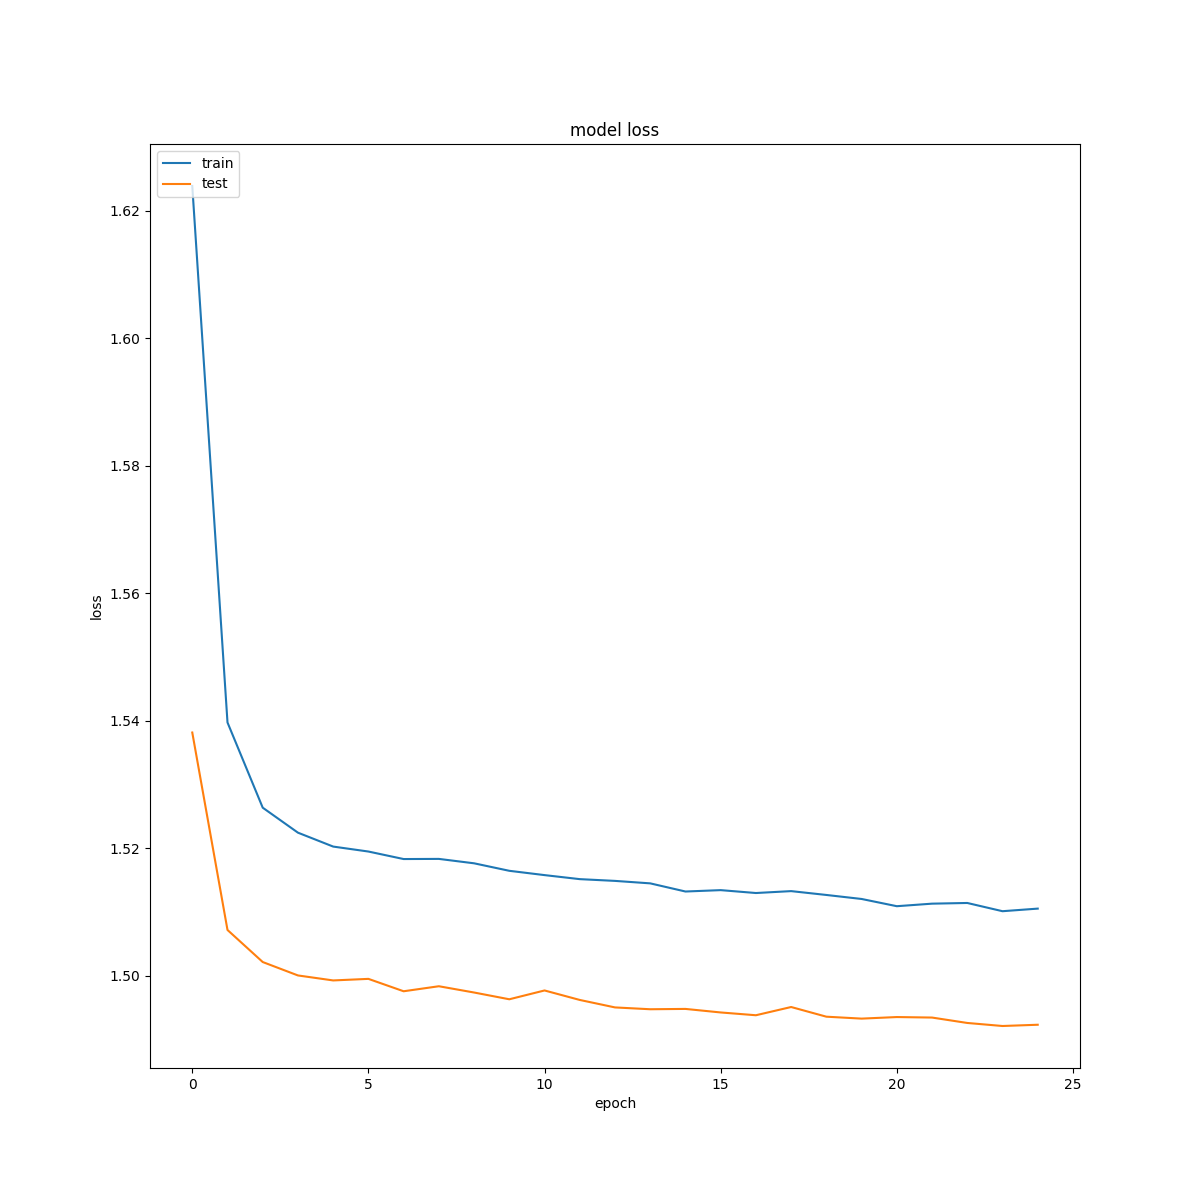
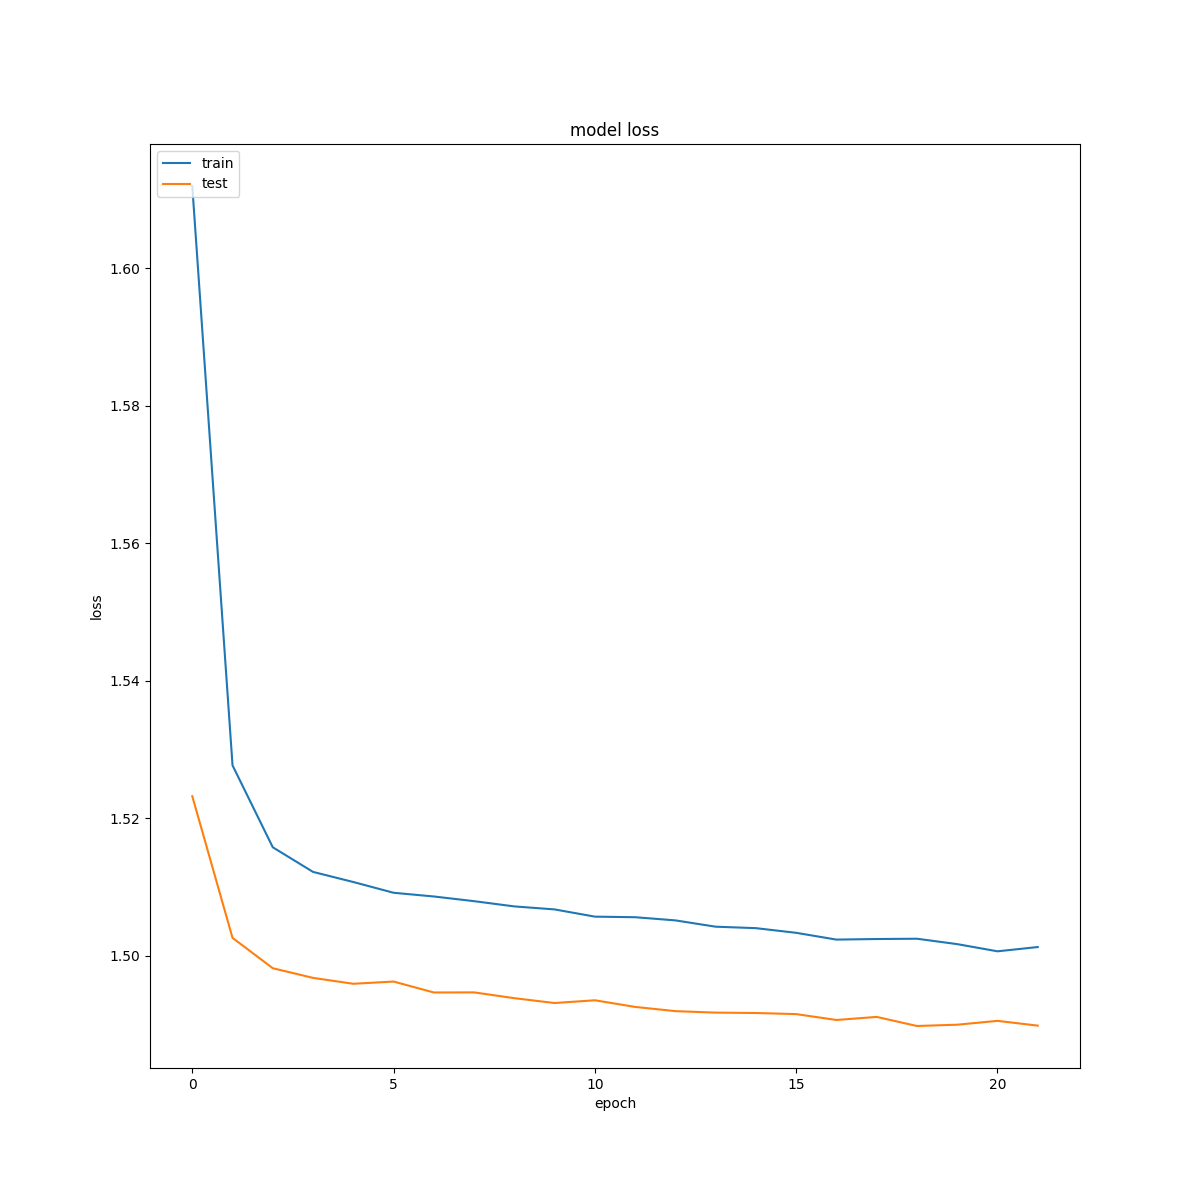
mfa com 32%

diff --git a/model/next_poi_category_prediction_models/users_steps/mfarnnuserssteps.py b/model/next_poi_category_prediction_models/users_steps/mfarnnuserssteps.py
@@ -69,6 +69,11 @@ class MFARNNUsersSteps(NNBase):
         distance_flatten = Flatten()(distance_embbeding)
         duration_flatten = Flatten()(duration_embbeding)
         id_flatten = Flatten()(id_embedding)
+        id_flatten = Flatten()(id_embedding)
+        id_flatten = Dense(49)(id_flatten)
+        print("1  ", id_flatten.shape)
+        id_unit = tf.keras.layers.Reshape((7, 7))(id_flatten)
+        print("ttt", id_unit.shape)
 
         l_p_flatten = Concatenate()([spatial_flatten, temporal_flatten, distance_flatten, duration_flatten])
         l_p = Concatenate()([spatial_embedding, temporal_embedding, distance_embbeding, duration_embbeding])
@@ -88,28 +93,39 @@ class MFARNNUsersSteps(NNBase):
                                  num_heads=4,
                                  name='Attention')(srnn, srnn)
 
-        # x_distances = GCNConv(22, activation='relu')([categories_distance_matrix, adjancency_matrix])
-        # x_distances = Dropout(0.5)(x_distances)
-        # x_distances = GCNConv(10, activation='relu')([x_distances, adjancency_matrix])
-        # x_distances = Dropout(0.5)(x_distances)
-        # x_distances = Flatten()(x_distances)
-        #
-        # x_durations = GCNConv(22, activation='relu')([categories_durations_matrix, adjancency_matrix])
+        distance_matrix = tf.math.multiply(id_unit, categories_distance_matrix)
+        # distance_matrix = categories_distance_matrix
+        # x_distances = self.graph_distances_a(distance_matrix, adjancency_matrix)
+        x_distances = GCNConv(22, activation='swish')([distance_matrix, adjancency_matrix])
+        x_distances = Dropout(0.5)(x_distances)
+        x_distances = GCNConv(10, activation='swish')([x_distances, adjancency_matrix])
+        x_distances = Dropout(0.5)(x_distances)
+        x_distances = Flatten()(x_distances)
+
+        durations_matrix = tf.math.multiply(id_unit, categories_durations_matrix)
+        # durations_matrix = categories_durations_matrix
+        # x_durations = self.graph_temporal_arma(durations_matrix, adjancency_matrix)
+        x_durations = GCNConv(22, activation='swish')([durations_matrix, adjancency_matrix])
         # x_durations = Dropout(0.5)(x_durations)
-        # x_durations = GCNConv(10, activation='relu')([x_durations, adjancency_matrix])
-        # x_durations = Dropout(0.5)(x_durations)
-        # x_durations = Flatten()(x_durations)
+        x_durations = GCNConv(10, activation='swish')([x_durations, adjancency_matrix])
+        x_durations = Dropout(0.3)(x_durations)
+        x_durations = Flatten()(x_durations)
 
         print("at", att.shape)
+        # att = Concatenate()([srnn, att])
         att = Flatten()(att)
-        y_sup = att
-        y_sup = Dropout(0.5)(y_sup)
+        print("att", att.shape)
+        print("transposto", tf.transpose(att).shape)
+        print("gc", x_distances.shape)
+        # y_up = tf.matmul(att, x)
+        y_sup = Concatenate()([att, x_distances, x_durations])
+        y_sup = Dropout(0.3)(y_sup)
         y_sup = Dense(location_input_dim, activation='softmax')(y_sup)
         y_cup = Dropout(0.5)(y_cup)
         y_cup = Dense(location_input_dim, activation='softmax')(y_cup)
         print("y cup", y_cup.shape)
         print("y sup", y_sup.shape)
-        y_up = y_sup
+        y_up = tf.Variable(initial_value=1.) * y_cup + tf.Variable(initial_value=1.) * y_sup
 
         model = Model(inputs=[location_category_input, temporal_input, country_input, distance_input, duration_input, week_day_input, user_id_input, adjancency_matrix, categories_distance_matrix, categories_temporal_matrix, categories_durations_matrix], outputs=[y_up], name="MFA-RNN")
 

diff --git a/model/next_poi_category_prediction_models/gowalla/mfa_rnn.py b/model/next_poi_category_prediction_models/gowalla/mfa_rnn.py
@@ -94,6 +94,7 @@ class MFA_RNN(NNBase):
 
         distance_matrix = tf.math.multiply(id_unit, categories_distance_matrix)
         #distance_matrix = categories_distance_matrix
+        #x_distances = self.graph_distances_a(distance_matrix, adjancency_matrix)
         x_distances = GCNConv(22, activation='swish')([distance_matrix, adjancency_matrix])
         x_distances = Dropout(0.5)(x_distances)
         x_distances = GCNConv(10, activation='swish')([x_distances, adjancency_matrix])
@@ -102,10 +103,11 @@ class MFA_RNN(NNBase):
 
         durations_matrix = tf.math.multiply(id_unit, categories_durations_matrix)
         #durations_matrix = categories_durations_matrix
+        #x_durations = self.graph_temporal_arma(durations_matrix, adjancency_matrix)
         x_durations = GCNConv(22, activation='swish')([durations_matrix, adjancency_matrix])
-        x_durations = Dropout(0.5)(x_durations)
+        #x_durations = Dropout(0.5)(x_durations)
         x_durations = GCNConv(10, activation='swish')([x_durations, adjancency_matrix])
-        x_durations = Dropout(0.5)(x_durations)
+        x_durations = Dropout(0.3)(x_durations)
         x_durations = Flatten()(x_durations)
 
         print("at", att.shape)
@@ -116,7 +118,7 @@ class MFA_RNN(NNBase):
         print("gc", x_distances.shape)
         # y_up = tf.matmul(att, x)
         y_sup = Concatenate()([att, x_distances, x_durations])
-        y_sup = Dropout(0.5)(y_sup)
+        y_sup = Dropout(0.3)(y_sup)
         y_sup = Dense(location_input_dim, activation='softmax')(y_sup)
         y_cup = Dropout(0.5)(y_cup)
         y_cup = Dense(location_input_dim, activation='softmax')(y_cup)
@@ -168,18 +170,18 @@ class MFA_RNN(NNBase):
                      order=2,
                      share_weights=True,
                      dropout_rate=0,
-                     activation='relu',
-                     gcn_activation='relu',
+                     activation='swish',
+                     gcn_activation='swish',
                      kernel_regularizer=l2(l2_reg))([x, adjacency])
 
-        x = Dropout(0.5)(x)
+        #x = Dropout(0.5)(x)
 
         x = ARMAConv(10, iterations=1,
                      order=2,
                      share_weights=True,
                      dropout_rate=drop_out_rate,
-                     activation='relu',
-                     gcn_activation='relu')([x, adjacency])
+                     activation='swish',
+                     gcn_activation='swish')([x, adjacency])
         x = Dropout(0.5)(x)
 
         return x
@@ -189,18 +191,18 @@ class MFA_RNN(NNBase):
                      order=3,
                      share_weights=True,
                      dropout_rate=0,
-                     activation='relu',
-                     gcn_activation='relu',
+                     activation='swish',
+                     gcn_activation='swish',
                      kernel_regularizer=l2(l2_reg))([x, adjacency])
 
-        x = Dropout(0.5)(x)
+        #x = Dropout(0.5)(x)
 
         x = ARMAConv(10, iterations=1,
                      order=2,
                      share_weights=True,
                      dropout_rate=drop_out_rate,
-                     activation='relu',
-                     gcn_activation='relu')([x, adjacency])
+                     activation='swish',
+                     gcn_activation='swish')([x, adjacency])
         x = Dropout(0.5)(x)
 
         return x

diff --git a/model/next_poi_category_prediction_models/gowalla/garg/garg.py b/model/next_poi_category_prediction_models/gowalla/garg/garg.py
@@ -73,7 +73,7 @@ class GARG:
         srnn = Dropout(0.5)(srnn)
 
         att = MultiHeadAttention(key_dim=2,
-                                 num_heads=4,
+                                 num_heads=1,
                                  name='Attention')(srnn, srnn)
 
         x = GCNConv(22, activation='relu')([categories_distance_matrix, adjancency_matrix])
@@ -86,7 +86,7 @@ class GARG:
         att = Dense(location_input_dim)(att)
         x = Dense(location_input_dim)(x)
         y_sup = tf.math.multiply(att, x)
-        y_sup = Dropout(0.5)(y_sup)
+        y_sup = Dropout(0.3)(y_sup)
         y_sup = Dense(location_input_dim, activation='softmax')(y_sup)
         y_cup = Dropout(0.5)(y_cup)
         y_cup = Dense(location_input_dim, activation='softmax')(y_cup)
